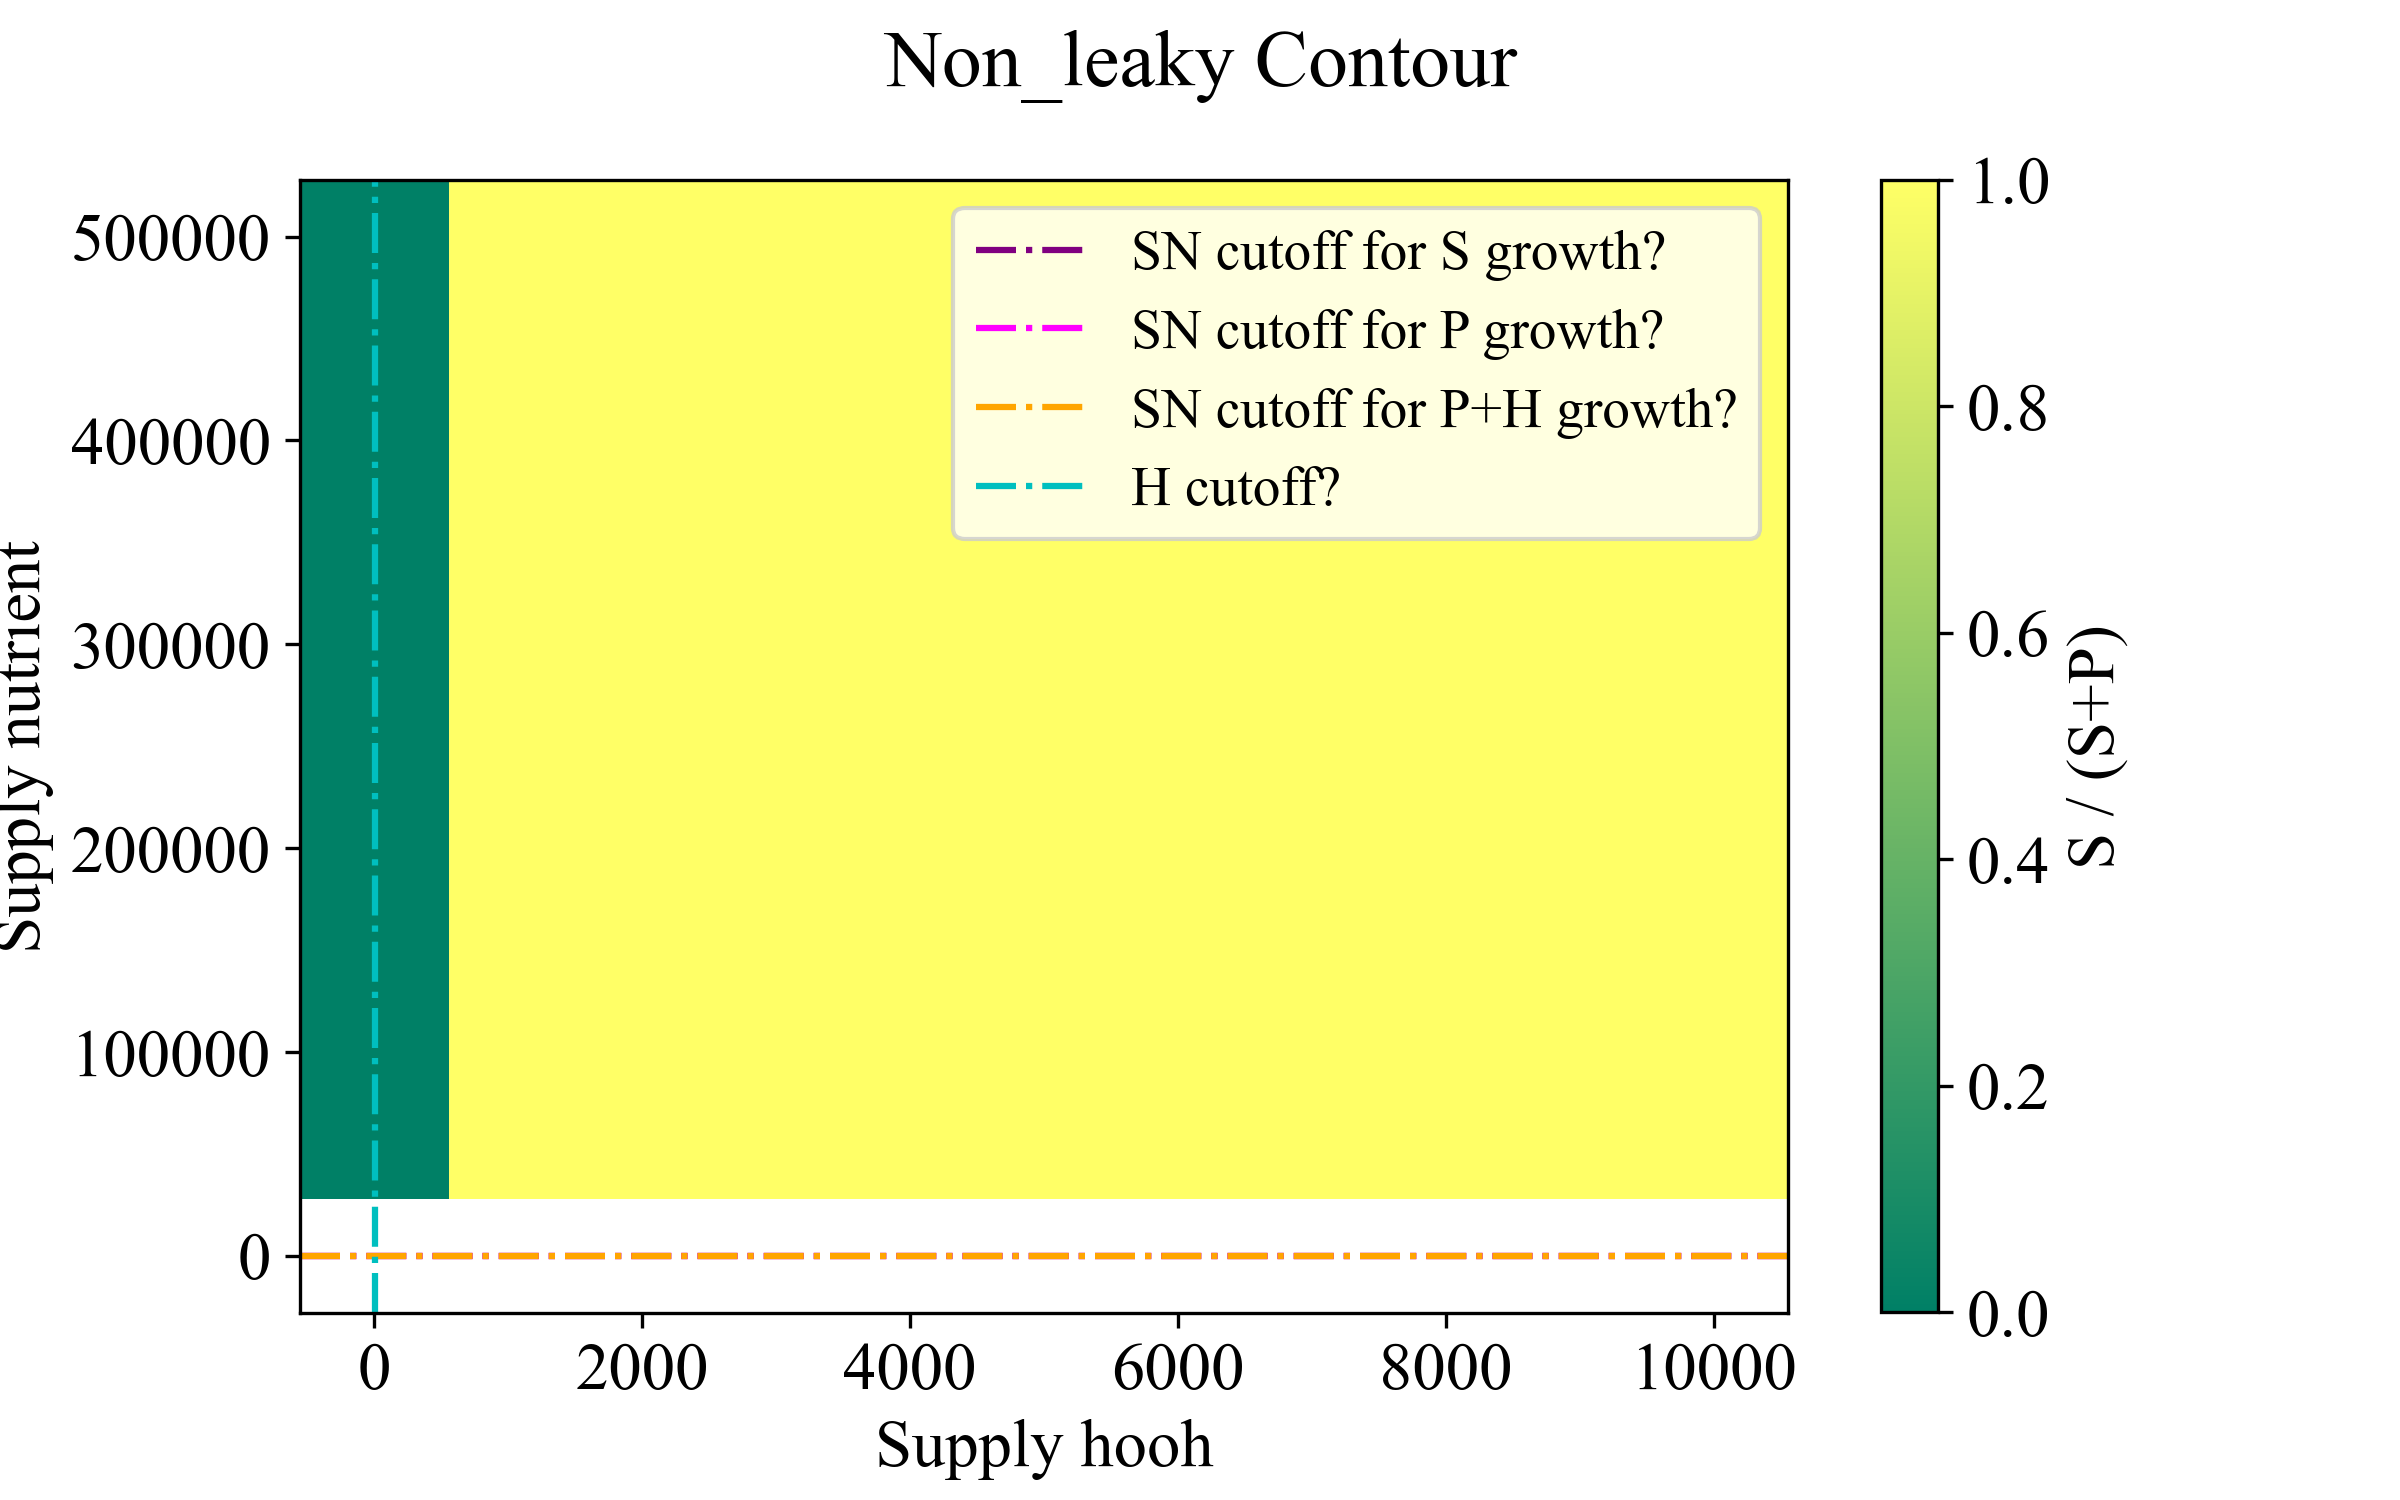
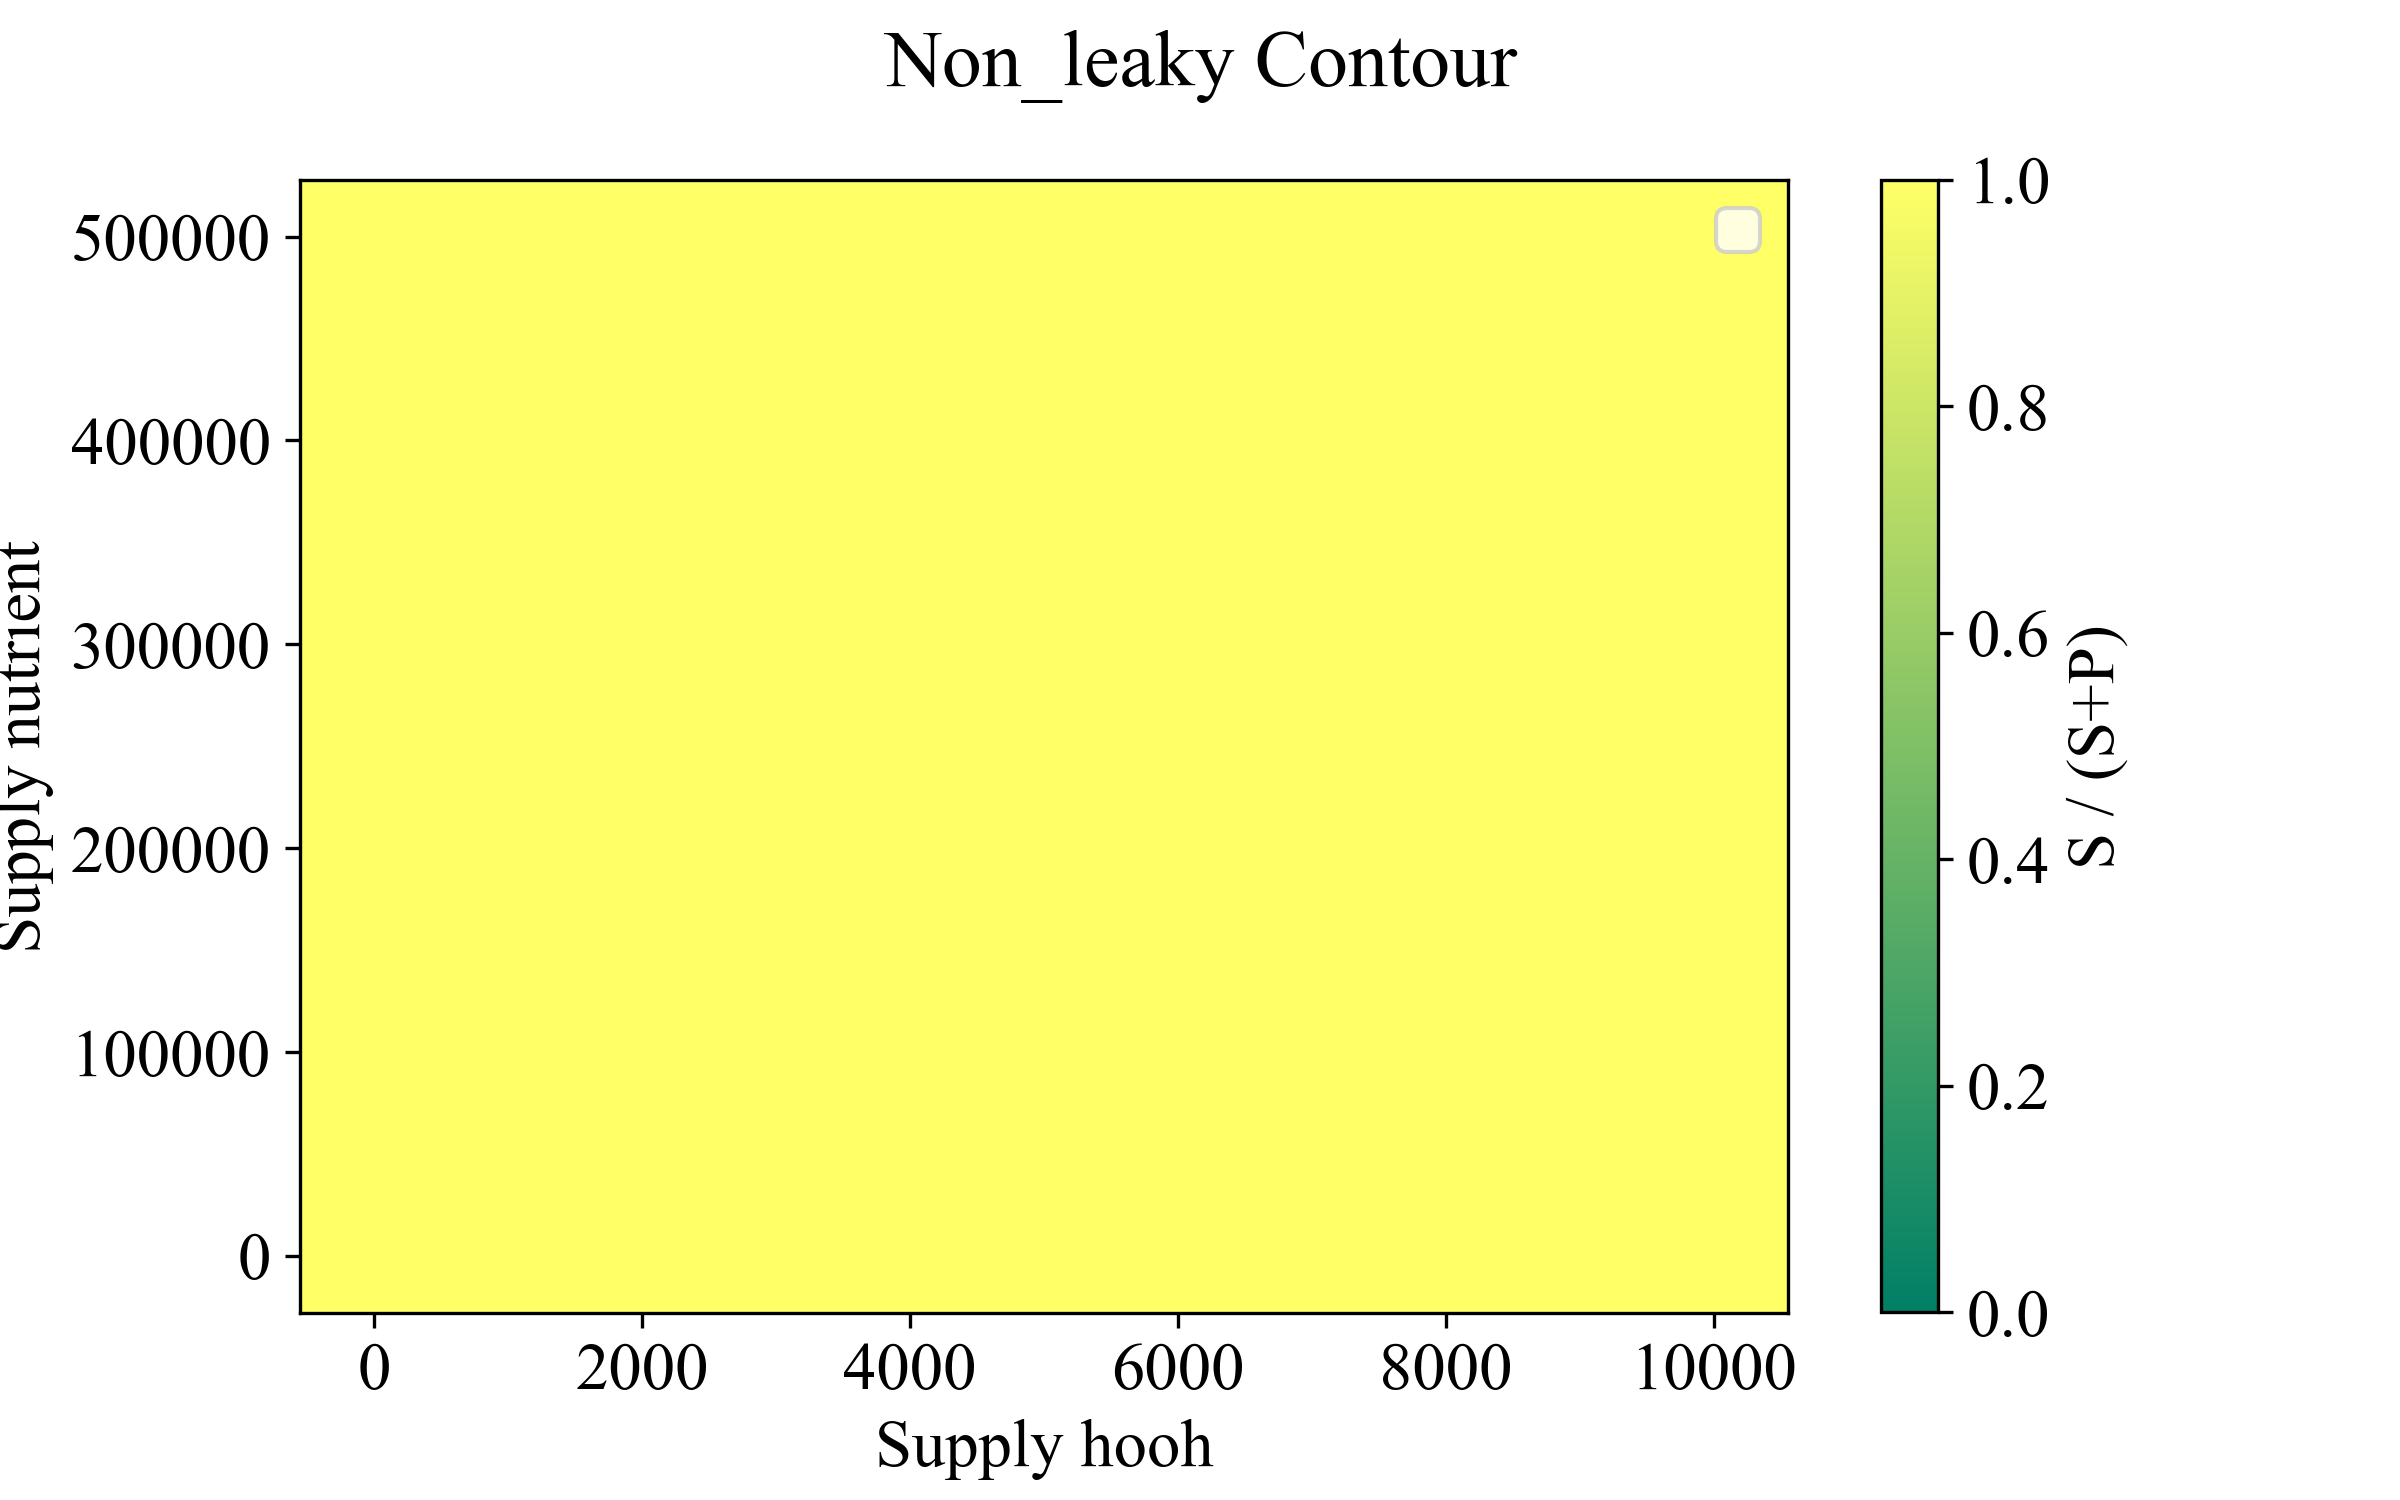
equilibria

Changed region(s): [[0.125, 0.1227, 0.75, 0.8893], [0.375, 0.1227, 0.75, 0.368]]

diff --git a/src/leaky_contour.py b/src/leaky_contour.py
@@ -30,29 +30,6 @@ ndays = 50
 mtimes = np.linspace(0,ndays,int(ndays/step))
 
 
-#parameters
-'''
-Qnp = 1#(9.4e-15*(1/(14.0))*1e+9)  #Nitrogen Quota for Pro from Bertilison 
-Qns = 1#(20.0e-15*(1/(14.0))*1e+9) 
-
-k1p =  200000     #Pro alpha
-k1s =  100000    #Syn alpha 
-k2p =  0.5    #Vmax     P
-k2s =  0.5  #Vmax     S  #0.300748361
-ksp = k2p/k1p
-kss = k2s/k1s
-dp = 0.002   #pro delta
-ds =  0.002   #syn delta
-kdam = 0.5   #hooh mediated damage rate of Pro  
-deltah = 0.002       #decay rate of HOOH via Syn 
-phi = 0.02    #0007  #detoxification-based decay of HOOH via Syn in this case
-rho =  0.002
-Sh = 0
-SN = 0
-params = [ksp,kss,k2p,k2s,dp,ds,kdam,deltah,phi,rho,SN,Sh]
-
-#empty arrays to be populated by odeint when calling leak function
-'''
 P = np.array([])
 S  = np.array([])
 N = np.array([])
@@ -69,25 +46,6 @@ H0 = 1     #nM
 
 inits = (P0,S0,N0,H0)
 
-'''
-
-#####################################
-
-## ODE functions  to be solved with odeint 
-
-#####################################
-
-def leak(y,t,params):
-    ksp,kss,k2p,k2s,dp,ds,kdam,deltah,phi,rho,SN,Sh = params[0], params[1], params[2], params[3],params[4],  params[5], params[6], params[7],params[8],params[9], params[10],params[11]
-    P,S,N,H = y[0],y[1],y[2],y[3]
-    dPdt = (k2p * N /( (ksp) + N) )*P - (dp *P) - kdam*H*P
-    dSdt =(k2s * N /( (kss) + N))*S - (ds *S) #- kdams*H*S      
-    dNdt =  SN - ((k2p * N /( (ksp) + N) )*P* Qnp) - ((k2s * N /( (kss) + N))*S* Qns) - rho*N    
-    dHdt = Sh - deltah*H  -phi*S*H  #phi being S cell-specific detox rate
-    return [dPdt,dSdt,dNdt,dHdt]
-
-
-'''
 
 #####################################
 
@@ -99,6 +57,8 @@ Sh = 10
 SN = 100000
 params = [ksp,kss,k2p,k2s,dp,ds,kdam,deltah,phi,rho,SN,Sh]
 
+#get equilibria with function 
+[Nstar, Pstar, Sstar, Hstar] = Coexist(params)[0,1,2,3]
 
 #run model 
 
@@ -110,33 +70,6 @@ Ps = competition[:,0]
 Ss = competition[:,1]
 Ns = competition[:,2]
 Hs = competition[:,3]
-
-##########################################################
-
-# Calculated analytical solutions at equilibrium
-
-##########################################################
-'''
-#Coexist
-Nstar = (kss*ds)/(k2s-ds)
-Hstar = (((k2p*Nstar)/(Nstar + ksp))-(dp))*(1/kdam)
-Sstar = (Sh - deltah*Hstar)/(phi*Hstar)
-Pstar = ((SN-rho*Nstar)*(Nstar + ksp))/(k2p*Nstar*Qnp)
-
-#Pwin 
-Nstarp = ((ksp*dp )+(ksp*kdam))/((k2p*Qnp) - dp - kdam)
-Pstarp = (SN - rho*Nstarp)*((Nstarp + ksp)/((k2p*Nstarp)*Qnp))
-Hstarp = Sh/(deltah+phi*Pstar)  #do we need toassume H must be 0 for P to win?????
-
-#Swin 
-Nstars = (ds*kss)/((k2s*Qns)-ds)
-Sstars = (SN - rho*Nstars)*(((Nstars + kss)/(k2s*Nstars*Qns)))
-Hstars = Sh/(deltah)
-
-
-Nstarph = ((ksp*dp )+(ksp*kdam*Hstar))/((k2p*Qnp) - dp - (kdam*Hstar))
-vHline = ((deltah)/(Pstar*kdam)*((Nstarp+ksp)/(k2p*Nstarp*Pstar*Qnp)+(dp*Pstar)))
-'''
 
 #graaph dynamics where P dominates 
 fig1, (ax1, ax2,ax3) = plt.subplots(3,1, sharex=True, figsize=(9,5),dpi = 300)
@@ -156,10 +89,7 @@ ax3.plot(mtimes, Hs,  linewidth = 3, color = 'red', label = "HOOH concentration 
 
 ax1.axhline(Sstar,color = 'orangered', linestyle = "-.",label = 'S*')
 ax1.axhline(Pstar,color = 'darkgreen', linestyle = ":",label = 'P*')
-ax2.axhline(Nstar,color = 'purple', linestyle = "-.",label = 'Nstar')
-
-ax2.axhline(Nstars,color = 'pink', linestyle = "-.",label = 'Ns*')
-ax2.axhline(Nstarp,color = 'magenta', linestyle = ":",label = 'Np*')
+ax2.axhline(Nstar,color = 'purple', linestyle = "-.",label = 'N*')
 ax3.axhline(Hstar,color = 'red', linestyle = "-.",label = 'H*')
 
 ax1.semilogy()
@@ -180,6 +110,8 @@ Sh = 100
 SN = 200
 params = [ksp,kss,k2p,k2s,dp,ds,kdam,deltah,phi,rho,SN,Sh]
 
+#get equilibria with function 
+[Nstar, Pstar, Sstar, Hstar] = Coexist(params)[0,1,2,3]
 
 #run model 
 
@@ -192,31 +124,6 @@ Ss = competition[:,1]
 Ns = competition[:,2]
 Hs = competition[:,3]
 
-##########################################################
-
-# Calculated analytical solutions at equilibrium
-
-##########################################################
-
-#Coexist
-Nstar = (kss*ds)/(k2s-ds)
-Hstar = (((k2p*Nstar)/(Nstar + ksp))-(dp))*(1/kdam)
-Sstar = (Sh - deltah*Hstar)/(phi*Hstar)
-Pstar = ((SN-rho*Nstar)*(Nstar + ksp))/(k2p*Nstar*Qnp)
-
-#Pwin 
-Nstarp = ((ksp*dp )+(ksp*kdam))/((k2p*Qnp) - dp - kdam)
-Pstarp = (SN - rho*Nstarp)*((Nstarp + ksp)/((k2p*Nstarp)*Qnp))
-Hstarp = Sh/(deltah+phi*Pstar)  #do we need toassume H must be 0 for P to win?????
-
-#Swin 
-Nstars = (ds*kss)/((k2s*Qns)-ds)
-Sstars = (SN - rho*Nstars)*(((Nstars + kss)/(k2s*Nstars*Qns)))
-Hstars = Sh/(deltah)
-
-
-Nstarph = ((ksp*dp )+(ksp*kdam*Hstar))/((k2p*Qnp) - dp - (kdam*Hstar))
-vHline = ((deltah)/(Pstar*kdam)*((Nstarp+ksp)/(k2p*Nstarp*Pstar*Qnp)+(dp*Pstar)))
 
 
 #graaph dynamics where S dominates 
@@ -263,6 +170,8 @@ for (i,SN) in zip(range(SNs.shape[0]),SNs):
     for (j,Sh) in zip(range(Shs.shape[0]),Shs):
         params = [ksp,kss,k2p,k2s,dp,ds,kdam,deltah,phi,rho, SN, Sh]
         leaky  = odeint(leak, inits, mtimes, args = (params,))
+        #get equilibria with function 
+        [Nstar, Pstar, Sstar, Hstar] = Coexist(params)[0,1,2,3]
         Psc = leaky[:,0]
         Ssc = leaky[:,1]
         Nsc = leaky[:,2]
@@ -277,11 +186,6 @@ for (i,SN) in zip(range(SNs.shape[0]),SNs):
             Z[i,j] = 0
         if np.all([g <= 1e-3 for g in Psc[-200:]]) and np.all([h <= 1e-3 for h in Ssc[-200:]]) : 
             Z[i,j] = -1
-        Nstar = (kss*ds)/(k2s-ds)
-        Hstar = (((k2p*Nstar)/(Nstar + ksp))-(dp))*(1/kdam)
-        Sstar = (Sh - deltah*Hstar)/(phi*Hstar)
-        Pstar = ((SN-rho*Nstar)*(Nstar + ksp))/(k2p*Nstar*Qnp)
-    
 
 
 #######################################
@@ -296,9 +200,9 @@ ax1.set(xlabel='Supply HOOH')
 ax1.set(ylabel='Supply N')
 
 
-ax1.axhline((rho*Nstar),color = 'purple', linestyle = "-.",label = 'Nstar')
+#ax1.axhline((rho*Nstar),color = 'purple', linestyle = "-.",label = 'Nstar')
 #ax1.axvline((vHline),color = 'c', linestyle = "-.",label = 'H ')
-ax1.axvline((Hstar*(deltah+(phi*Pstar))),color = 'b', linestyle = "-.",label = 'H cutoff?')
+#ax1.axvline((Hstar*(deltah+(phi*Pstar))),color = 'b', linestyle = "-.",label = 'H cutoff?')
 
 fig3.colorbar(grid, cmap= 'summer',label = 'S / S+P')
 

diff --git a/src/no_leak_contour.py b/src/no_leak_contour.py
@@ -64,7 +64,7 @@ SN = 1e4
 params = [ksp,kss,k2p,k2s,dp,ds,kdam,deltah,phi,rho,SN,Sh]
 
 #get equilibria
-Pwins(params) #use function from other file to get equilibria
+[Nstar, Pstar, Sstar, Hstar] = Pwins(params) #use function from other file to get equilibria
 
 #run model 
 
@@ -100,7 +100,7 @@ ax3.plot(mtimes, Hs,linewidth = 3, color = 'red', label = "HOOH")
 
 ax1.axhline(Sstar,color = 'orange', linestyle = "-.",label = 'S*')
 ax1.axhline(Pstar,color = 'g', linestyle = "-.",label = 'P*')
-ax2.axhline(Nstars,color = 'purple', linestyle = "-.",label = 'N*s')
+ax2.axhline(Nstar,color = 'purple', linestyle = "-.",label = 'N*s')
 ax3.axhline(Hstar,color = 'red', linestyle = "-.",label = 'H*')
 
 ax1.semilogy()
@@ -129,8 +129,9 @@ Sh = 250
 SN = 1e4
 params = [ksp,kss,k2p,k2s,dp,ds,kdam,deltah,phi,rho,SN,Sh]
 
-Swins(params)
+[Nstar, Pstar, Sstar, Hstar] = Swins(params)
 #run model 
+
 
 competition  = odeint(leak, inits, mtimes, args = (params,))
 
@@ -164,7 +165,7 @@ ax3.plot(mtimes, Hs,linewidth = 3, color = 'red', label = "HOOH")
 
 ax1.axhline(Sstar,color = 'orange', linestyle = "-.",label = 'S*')
 ax1.axhline(Pstar,color = 'g', linestyle = "-.",label = 'P*')
-ax2.axhline(Nstars,color = 'purple', linestyle = "-.",label = 'N*s')
+ax2.axhline(Nstar,color = 'purple', linestyle = "-.",label = 'N*s')
 ax3.axhline(Hstar,color = 'red', linestyle = "-.",label = 'H*')
 
 ax1.semilogy()
@@ -222,10 +223,10 @@ fig2.suptitle('Non_leaky Contour')
 grid = ax1.pcolormesh( Shs,SNs, np.where(Z == -1, np.nan, Z), vmin=0, vmax=np.max(Z), cmap = 'summer', shading='auto')  #'summer_r is reversed color map shading
 #np.where(Z == 17, np.nan, Z)
 
-ax1.axhline((rho*Nstars),color = 'purple', linestyle = "-.",label = 'SN cutoff for S growth?')
-ax1.axhline((rho*Nstarp),color = 'magenta', linestyle = "-.",label = 'SN cutoff for P growth?')
-ax1.axhline((rho*Nstarph),color = 'orange', linestyle = "-.",label = 'SN cutoff for P+H growth?')
-ax1.axvline((vHline),color = 'c', linestyle = "-.",label = 'H cutoff?')
+#ax1.axhline((rho*Nstar),color = 'purple', linestyle = "-.",label = 'SN cutoff for S growth?')
+#ax1.axhline((rho*Nstarp),color = 'magenta', linestyle = "-.",label = 'SN cutoff for P growth?')
+#ax1.axhline((rho*Nstarph),color = 'orange', linestyle = "-.",label = 'SN cutoff for P+H growth?')
+#ax1.axvline((vHline),color = 'c', linestyle = "-.",label = 'H cutoff?')
 
 ax1.set(xlabel='Supply hooh')
 ax1.set(ylabel='Supply nutrient')

diff --git a/src/functions.py b/src/functions.py
@@ -64,9 +64,9 @@ def Swins (params):
 
 def Coexist (params): 
     Nstar = (kss*ds)/(k2s-ds)
+    Pstar = ((SN-rho*Nstar)*(Nstar + ksp))/(k2p*Nstar*Qnp)
     Hstar = (((k2p*Nstar)/(Nstar + ksp))-(dp))*(1/kdam)
     Sstar = (Sh - deltah*Hstar)/(phi*Hstar)
-    Pstar = ((SN-rho*Nstar)*(Nstar + ksp))/(k2p*Nstar*Qnp)
     return  Nstar, Pstar, Sstar, Hstar 
 
 
@@ -77,8 +77,8 @@ def Coexist (params):
 
 #N threshold 
 
-Nstarph = ((ksp*dp )+(ksp*kdam*Hstar))/((k2p*Qnp) - dp - (kdam*Hstar))
+#Nstarph = ((ksp*dp )+(ksp*kdam*Hstar))/((k2p*Qnp) - dp - (kdam*Hstar))
 
 #h thresthold 
-vHline = ((deltah)/(Pstar*kdam)*((Nstarp+ksp)/(k2p*Nstarp*Pstar*Qnp)+(dp*Pstar)))
+#vHline = ((deltah)/(Pstar*kdam)*((Nstarp+ksp)/(k2p*Nstarp*Pstar*Qnp)+(dp*Pstar)))
 
